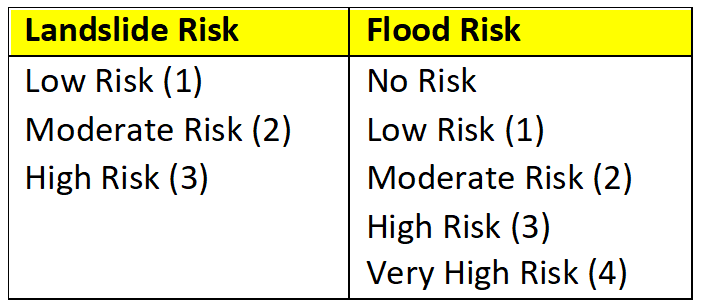
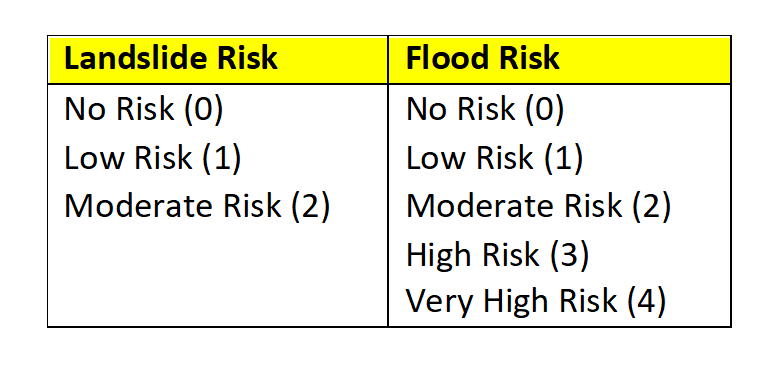
ww

diff --git a/pag1.py b/pag1.py
@@ -14,6 +14,7 @@ import shapefile #pip install pyshp#
 import shapely.speedups
 shapely.speedups.enable()
 
+
 ############# from shapefile to dataframe pandas #################
 def read_shapefile(shp_path):
 	"""
@@ -30,6 +31,26 @@ def read_shapefile(shp_path):
 	df = df.assign(coords=shps)
 	return df
 ##############################################################################################
+def dict2(landslide_code):
+	dict_Landslide = {0:'No-Risk',
+					1:'Low-Risk',
+					2:'Moderate-Risk'}
+	for key,value in dict_Landslide.items():
+		if key == landslide_code:
+			landslide_str=value
+			return str(landslide_str)
+
+def dict1(new_risk):
+	dict_Flood = {0:'No-Risk',
+				1:'Low-Risk',
+				2:'Moderate-Risk',
+				3:'High-Risk',
+				4:'Very High-Risk'}
+	for key,value in dict_Flood.items():
+		if key == new_risk:
+			flood_str=value
+			return str(flood_str)
+
 # Landslide Risk (Vectorised)
 landslide_shp = gpd.read_file('Flood_and_Landslide_Datasets/geonode_class3_elev.shp')
 landslide_json = 'Flood_and_Landslide_Datasets/geonode_class3_elev1.geojson'
@@ -91,8 +112,8 @@ def main():
 	# lst_dict=[]
 
 	######## Dictionary Landslide-Flood-Risk
-	dict_Landslide = {0:'Low-Risk',1:'Moderate-Risk',2:'High-Risk'}
-	dict_Flood = {0:'No-Risk',1:'Low-Risk',2:'Moderate-Risk',3:'High-Risk',4:'Very High-Risk'}
+	#dict_Landslide = {0:'No-Risk',1:'Low-Risk',2:'Moderate-Risk'}
+	#dict_Flood = {0:'No-Risk',1:'Low-Risk',2:'Moderate-Risk',3:'High-Risk',4:'Very High-Risk'}
 # Text labels to enter the lat & long coordinates once you read them on the map
 	lat_long = st.text_input('Insert Latitude,Longitude (without spaces) format WGS84-EPGS4326 (DD.dddd) for example: 15.2533,-61.3164',max_chars=16)
 	if lat_long != '': 
@@ -112,50 +133,61 @@ def main():
 			if p.within(i):
 				polig_landslide = landslide_shp[landslide_shp.geometry.intersects(coordinate)].values[0][0]
 				landslide_code =polig_landslide-1
-				if landslide_code <=2:
-					for key,value in dict_Landslide.items():
-						if key == landslide_code:
-							landslide_str=value
-					print(landslide_code)
-					st.markdown('**-Landslide Risk: **'+ str(landslide_code)+' ---> '+landslide_str)
-					#st.write('wait for Flood Risk Analysis... ')
-				else:
-					###seems doesn't work!
-					landslide_code = 'Outside Risk Zone'
-					print(landslide_code)
-					st.markdown('**-Landslide Risk: **'+ str(landslide_code))
-					new_risk = 'Outside Flood Risk Zone'
-					print(new_risk)
-					st.markdown('**-Flood risk: **' + str(new_risk))
-					url1 = 'tablerisk.png'
-					image1 = Image.open(url1)
-					st.image(image1, caption='',use_column_width=True)
-					break
-		
-		######## Second loop for flood risk
-		frisk_code = 'NAN'
-		new_risk = 'NAN'
-		for i in flood_shp.loc[:,'geometry']:
-			p = Point(longitude,latitude)
-			if p.within(i):	
+				#if landslide_code <=2:
+				print(landslide_code)
+				st.markdown('**-Landslide Risk: **'+ str(landslide_code)+' ---> '+ dict2(landslide_code))
+				
 				frisk_code = flood_shp[flood_shp.geometry.intersects(coordinate)].values[0][0]
 				new_risk = frisk_code-1
-				if new_risk <=4:
-					for key,value in dict_Flood.items():
-						if key == new_risk:
-							flood_str=value
-					st.markdown('**-Flood risk: **' + str(new_risk)+'---> '+flood_str)
-					print(new_risk)
-					url1 = 'tablerisk.png'
-					image1 = Image.open(url1)
-					#st.markdown(get_table_download_link(df), unsafe_allow_html=True)
-					st.image(image1, caption='',width=350)
-					break 
+				#if new_risk <=4:
+				st.markdown('**-Flood risk: **' + str(new_risk)+'---> '+dict1(new_risk))
+				print(new_risk)
+				url1 = 'tablerisk.png'
+				image1 = Image.open(url1)
+				#st.markdown(get_table_download_link(df), unsafe_allow_html=True)
+				st.image(image1, caption='',width=350)
+				break 
+				
+				
+				
+				
+				
+				
+					#st.write('wait for Flood Risk Analysis... '
+				# else:
+				# 	###seems doesn't work!
+				# 	landslide_code = 'Outside Risk Zone'
+				# 	print(landslide_code)
+				# 	st.markdown('**-Landslide Risk: **'+ str(landslide_code))
+				# 	new_risk = 'Outside Flood Risk Zone'
+				# 	print(new_risk)
+				# 	st.markdown('**-Flood risk: **' + str(new_risk)) 
+				# 	url1 = 'tablerisk.png'
+				# 	image1 = Image.open(url1)
+				# 	st.image(image1, caption='',use_column_width=True)
+				# 	break
+		
+		######## Second loop for flood risk
+		# frisk_code = 'NAN'
+		# new_risk = 'NAN'
+		# for i in flood_shp.loc[:,'geometry']:
+		# 	p = Point(longitude,latitude)
+		# 	if p.within(i):	
+		# 		frisk_code = flood_shp[flood_shp.geometry.intersects(coordinate)].values[0][0]
+		# 		new_risk = frisk_code-1
+		# 		#if new_risk <=4:
+		# 		st.markdown('**-Flood risk: **' + str(new_risk)+'---> '+dict1(new_risk))
+		# 		print(new_risk)
+		# 		url1 = 'tablerisk.png'
+		# 		image1 = Image.open(url1)
+		# 		#st.markdown(get_table_download_link(df), unsafe_allow_html=True)
+		# 		st.image(image1, caption='',width=350)
+		# 		break 
 
 	## TEST ##
-	## flood risk ==4 Landl ==1 #15.3393,-61.2603
-	## flood risk ==0 Landl ==2 15.5310,-61.4623
-	## flood risk ==0 Landl ==1 #15.3451,-61.3588
+	## flood risk ==4 Landl ==0 #15.3393,-61.2603
+	## flood risk ==0 Landl ==1 15.5310,-61.4623
+	## flood risk ==0 Landl ==0 #15.3451,-61.3588
 	## outside flood and risk # 15.4265,-61.2447
 if __name__ == "__main__":
 	main()
